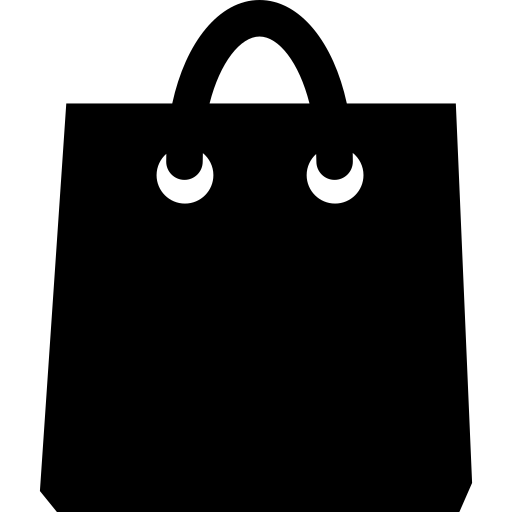
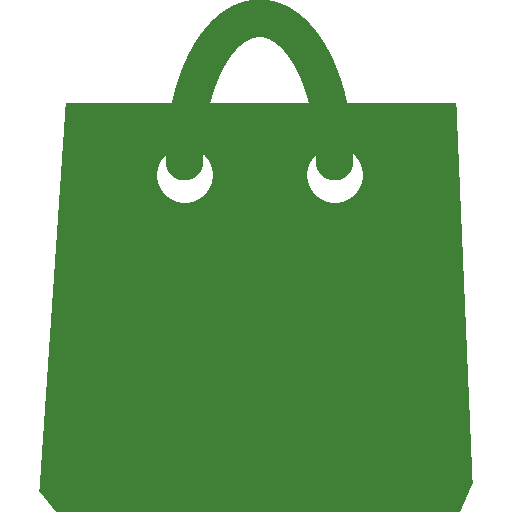
send in

diff --git a/css/style.css b/css/style.css
@@ -27,7 +27,7 @@ h1 {
     font-weight: 800;
     font-size: 40px;
     text-align: center;
-    color: black;
+    color: #408036;
 }
 
 #indexhome {
@@ -45,7 +45,7 @@ h1 {
 }
 
 #shoppingbag {
-    height: 40p x;
+    height: 40px;
     width: 40px;
 }
 
@@ -150,9 +150,8 @@ main {
 #ptitel {
     font-size: 40px;
     text-align: center;
-    color: black;
-    font-weight: bold;
-    font-weight: 500;
+    color: #408036;
+    font-weight: 800;
 }
 
 #pinfo {
@@ -198,15 +197,17 @@ h2 {
 
 #h2 {
     margin-top: 5%;
-    color: black;
+    color: #408036;
 }
 
 #h21 {
     margin-top: 2.5%;
+    color: #408036;
 }
 
 #h22 {
     margin-top: 2.5%;
+    color: #408036;
 }
 
 h3 {
@@ -410,6 +411,8 @@ p {
     margin-top: 50px;
     margin-bottom: 50px;
     text-align: center;
+    font-weight: 800;
+    color: #408036;
 }
 
 #hejp {
@@ -650,8 +653,8 @@ form {
 
 .bh1 {
     text-align: center;
-    margin: 20px 0;
-    color: #333;
+    margin-top: 80px;
+    color: #408036;
 }
   
 .bp {
@@ -664,7 +667,7 @@ form {
     margin: 20px 0 10px;
     font-size: 18px;
     font-weight: 800;
-    color: #333;
+    color: #408036;
 }
   
 .bimg {
@@ -698,7 +701,7 @@ form {
 }
 
 #buy-button1 {
-    margin-left: 110px;
+    margin-left: 112.5px;
     margin-top: 50px;
     border: none;
     background: #4e7049;
@@ -709,7 +712,7 @@ form {
 }
 
 #buy-button2 {
-    margin-left: 110px;
+    margin-left: 112.5px;
     margin-top: 50px;
     border: none;
     background: #4e7049;
@@ -720,7 +723,7 @@ form {
 }
 
 #buy-button3 {
-    margin-left: 110px;
+    margin-left: 112.5px;
     margin-top: 50px;
     border: none;
     background: #4e7049;

diff --git a/kontakt.html b/kontakt.html
@@ -41,15 +41,15 @@
 
             <h2 id="h2hej">Kontakta Oss</h2>
 
-            <p id="hejp">Behöver du hjälp eller har du frågor om vårt utbud av leksaker och djurprodukter? Tveka inte att kontakta oss!<br>Du kan nå oss på telefonnummer 076-229 41 04 eller via e-post på info@lekochzoo.com. Vi hjälper dig gärna.</p>
+            <p id="hejp"><b>Behöver du hjälp eller har du frågor om vårt utbud av leksaker och djurprodukter? Tveka inte att kontakta oss!<br>Du kan nå oss på telefonnummer 076-229 41 04 eller via e-post på info@lekochzoo.com. Vi hjälper dig gärna.</b></p>
 
             <div id="container">
                 <form action="mailto:muhamed.hamza@elev.ga.ntig.se" method="post" enctype="text/plain">
-                    <label for="namn">Namn:</label><br>
+                    <label for="namn"><b>Namn:</b></label><br>
                     <input type="text" id="namn" name="namn"><br>
-                    <label for="epost">E-postadress:</label><br>
+                    <label for="epost"><b>E-postadress:</b></label><br>
                     <input type="text" id="epost" name="epost"><br><br>
-                    <label for="meddelande">Meddelande:</label><br>
+                    <label for="meddelande"><b>Meddelande:</b></label><br>
                     <textarea id="meddelande" name="meddelande" rows="5" cols="30"></textarea><br><br>
                     <input type="submit" value="Skicka">
                   </form> 

diff --git a/boka.html b/boka.html
@@ -35,11 +35,11 @@
     <main id="bokaoss">
 
         <div id="bokaossimg">
-            <img src="img/backgrounds/contactus.jpg" alt="kontakta oss gärna" id="cnusimg">
+            <img src="img/backgrounds/bokaoss.jpg" alt="Boka hos oss" id="cnusimg">
         </div>
 
         <h1 class="bh1">Välkommen att boka biljetter till Zoo</h1>
-        <p class="bp">På den här sidan kan du boka biljetter till vårt fantastiska djurpark. Välj mellan olika biljetttyper nedan och använd plus- och minusknapparna för att<br>ändra antalet biljetter. Barn upp till 3 år får gratis inträde endast med en vårdnadshavare.</p>
+        <p class="bp"><b>På den här sidan kan du boka biljetter till vårt fantastiska djurpark. Välj mellan olika biljetttyper nedan och använd plus- och minusknapparna för att<br>ändra antalet biljetter. Barn upp till 3 år får gratis inträde endast med en vårdnadshavare.</b></p>
 
         <div id="test222">
             <div id="division1">

diff --git a/resturang.html b/resturang.html
@@ -38,7 +38,7 @@
         </div>
 
         <div id="resturangelma">
-            <p id="ptitel"><b>Vår Meny</b></p>
+            <p id="ptitel">Vår Meny</p>
 
             <p id="pinfo"><b>Välkommen till vår restaurang på Lek & Zoo! Här kan du njuta av en måltid i en avslappnad miljö medan dina barn leker på vår lekplats.<br>Vi erbjuder en meny med något för alla. Vi ser fram emot att välkomna dig och din familj!</b></p>
 
